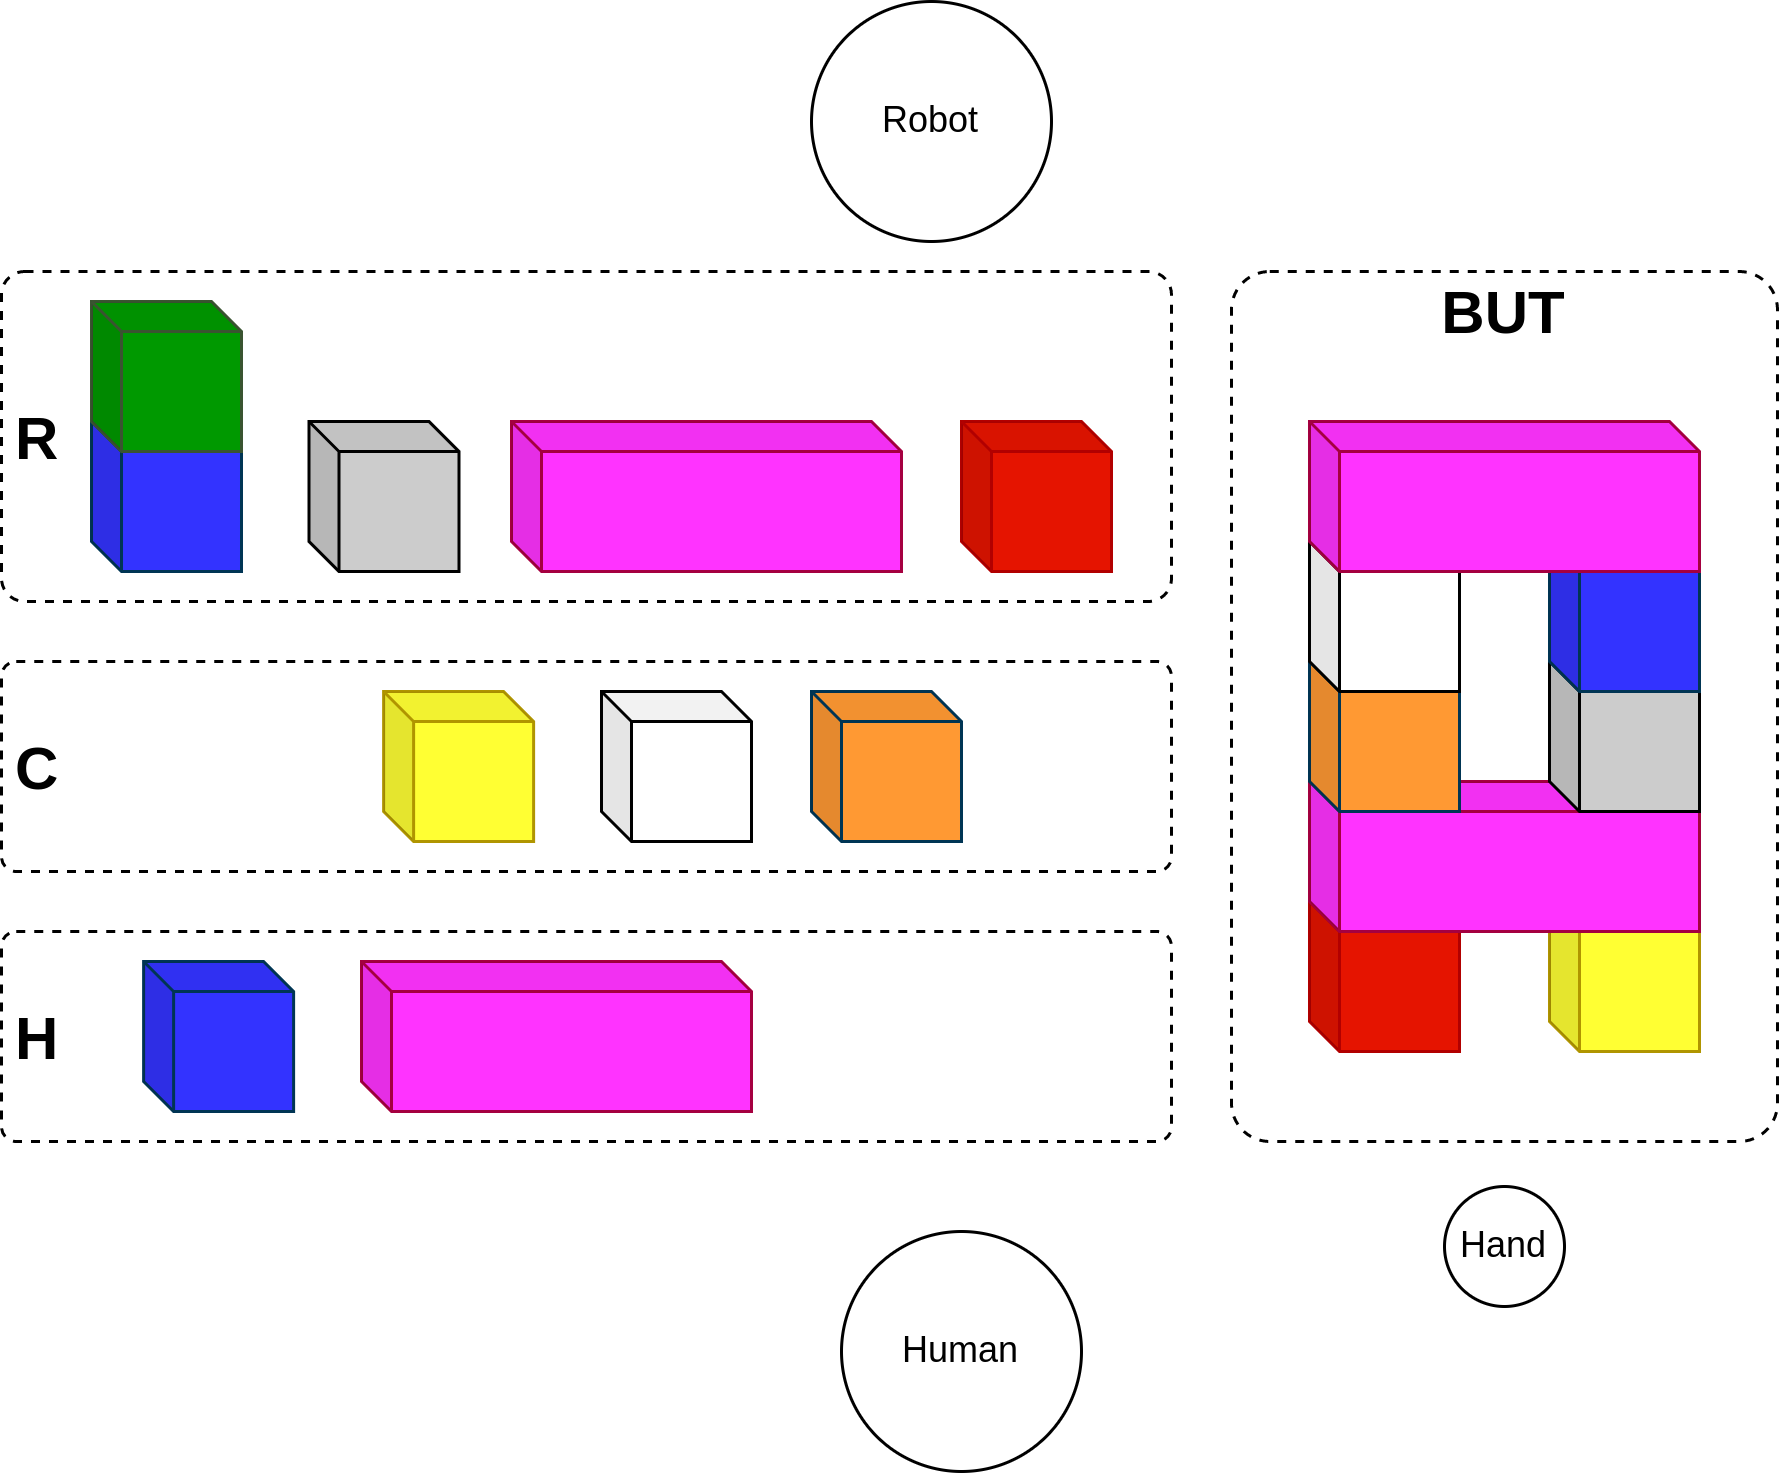
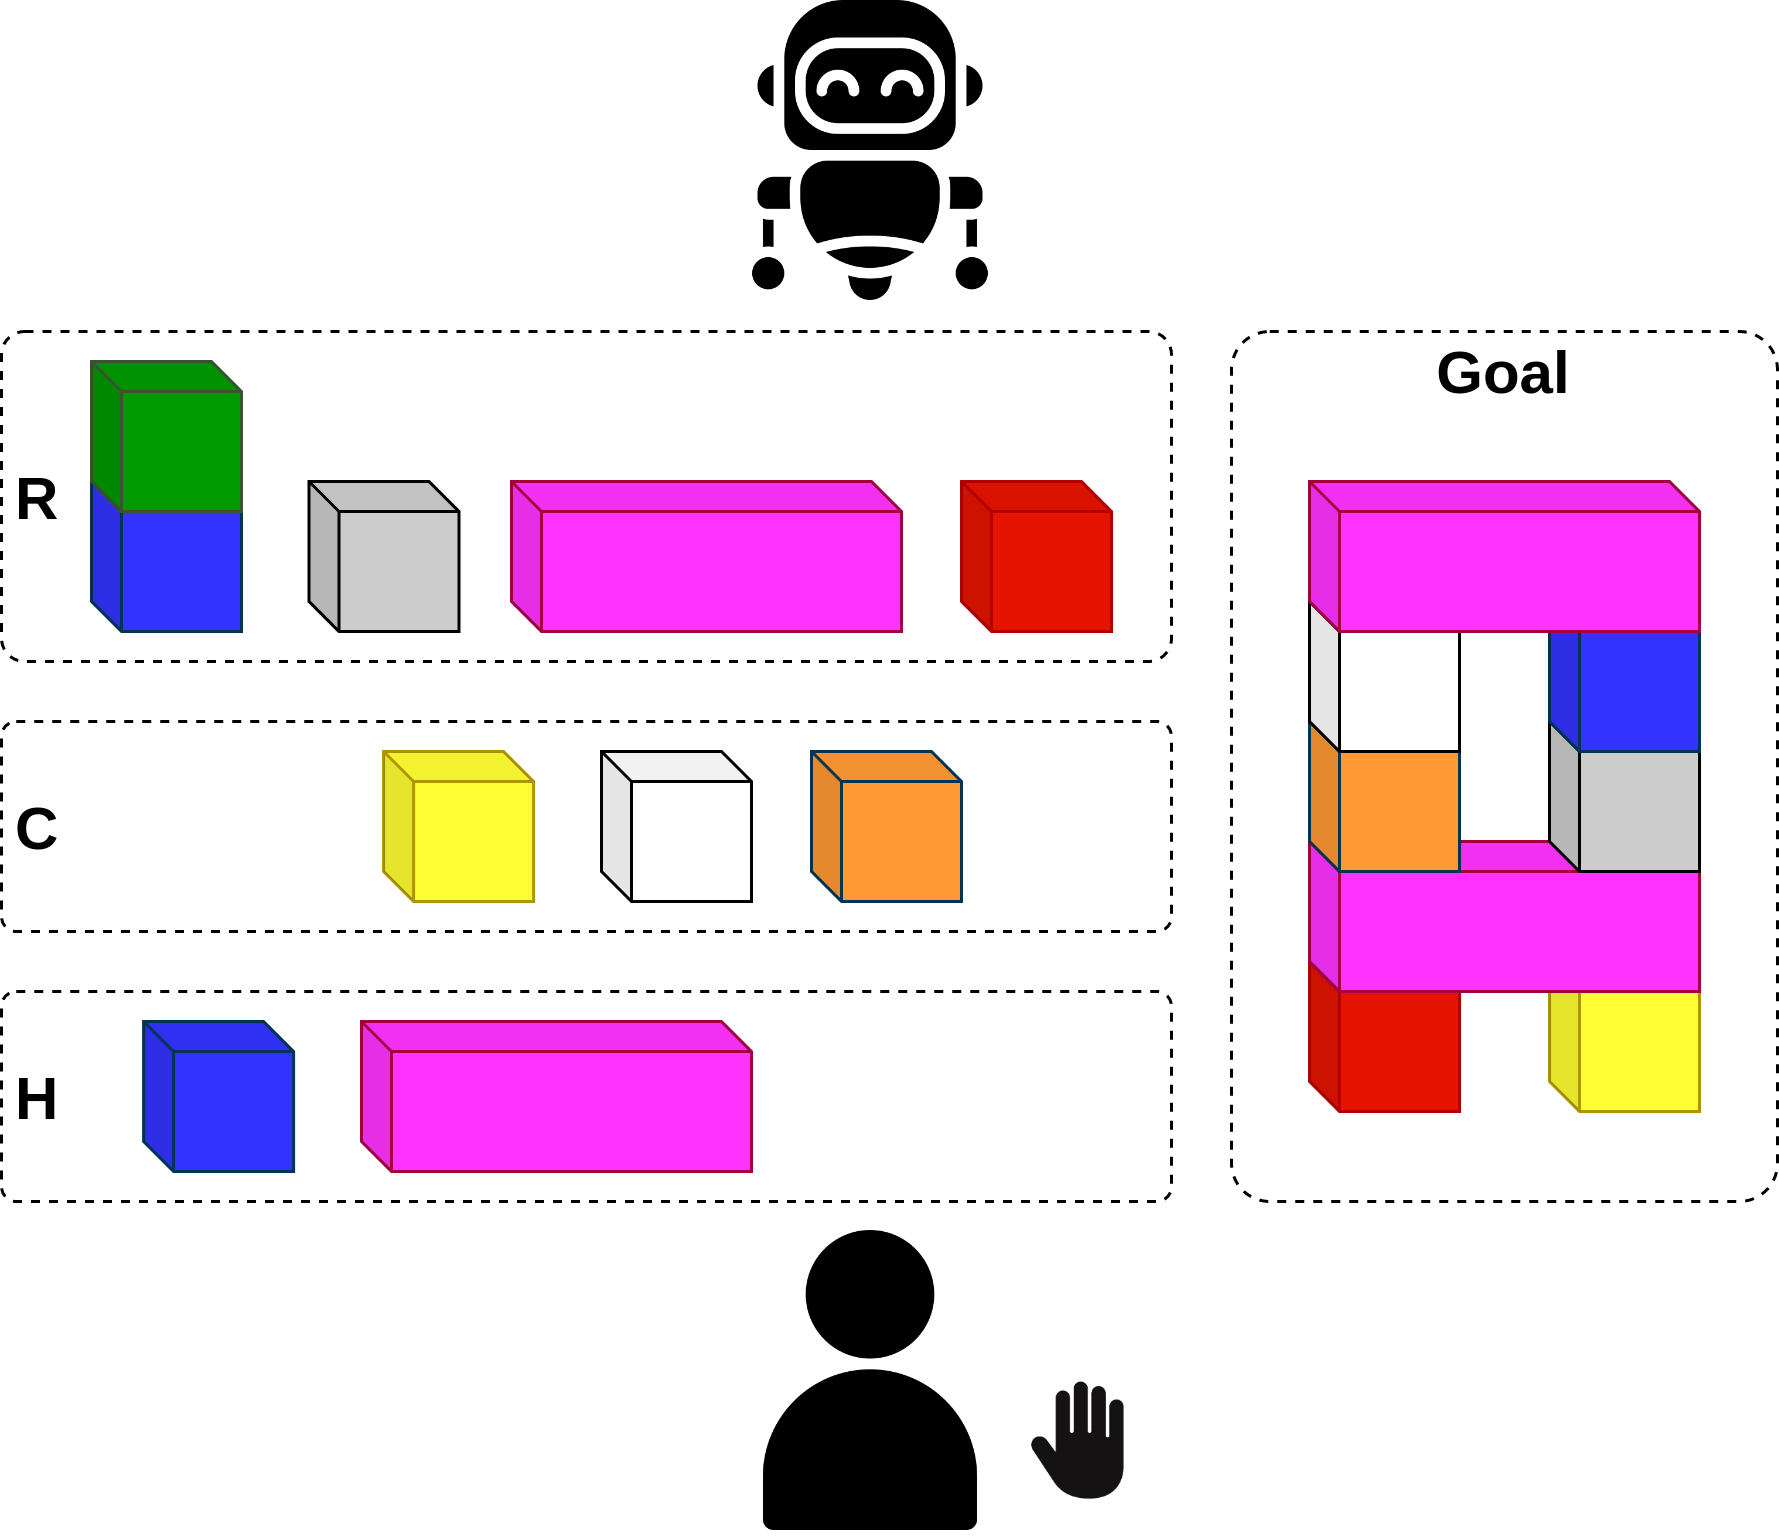
Ch5 fig update

diff --git a/Chapters/Chapter5_Study.tex b/Chapters/Chapter5_Study.tex
@@ -34,7 +34,13 @@ Synchronization, internal communication through simulated visual signal, explici
 
 ***********
 
-In this section we provide a few functional and technical details about the developed interactive simulator used for the User Study.
+In this section we provide a few functional and technical details about the developed interactive simulator used for the User Study, its overall structure is shown on fig~\ref{fig:iteractive_simulator}.
+
+\begin{figure}
+    \includegraphics[width=\textwidth]{images/Chapter5/simulator.png}
+    \caption{Interactive Simulator Overview}
+    \label{fig:iteractive_simulator}
+\end{figure}
 
 First, it is using Gazebo to simulate the scene (table, cubes, agents). 
 The robot is a Tiago robot from PAL Robotics. We used a MoveIt controller to plan and execute arm motions. We used a publicly available component to control the gaze of the robot. The head behavior is ad hoc and designed by us.
@@ -50,17 +56,13 @@ For this to be possible we did the following. First, another gazebo plugin has b
 Then, at every step, the robot component sends to the component receiving the coordinates of the click the currently valid human actions that the participant can perform. Thus, the participant cannot try to place a cube without holding it. Eventually, each human action is mapped to a clickable zone on the gazebo window. Hence, when the click coordinates are received, we check if it is inside one of the designed zone and is the action associated to the zone is currently valid. If so, then the action decision is sent to the simulator controller to be executed. 
 For clarification purpose, when clicking on a cube the robot doesn't immediately know that the human is picking a cube. First, it will know that the human started to act only after receiving the visual signal (after the defined reaction time). And the robot must perform an additional perception phase (ID Process) to identify which action the human performed. 
 
-Additionally, a small prompt overlay is present to simulate a potential screen with which the robot can communicate its intention to the human during the collaboration.  
+Additionally, the stacking goal pattern is shown inside the simulator and a small prompt overlay is present to simulate a potential screen with which the robot can communicate its intention to the human during the collaboration. 
 
 Thanks to all these processes, the participant is able to intuitively perform actions using mouse control and can collaborate with the robot to solve the task.
 
 An integrated tutorial has been made to familiarize the participant with the mouse control and the relevant concepts used in the collaboration (notion of step, able to be passive). 
 
-\begin{figure}
-    \includegraphics[width=\textwidth]{images/Chapter5/simulator.png}
-    \caption{Interactive Simulator Overview}
-    \label{fig:iteractive_simulator}
-\end{figure}
+
 
 \section{Study protocol}
 
@@ -69,7 +71,8 @@ objective, participants, material, experiment design, procedure, measures
 This section describes the objectives and protocol of this study.  
 
 \begin{figure}
-    \includegraphics[width=\textwidth]{images/Chapter5/UserStudyProcedure.png}
+    \centering
+    \includegraphics[width=0.8\textwidth]{images/Chapter5/UserStudyProcedure.png}
     \caption{User Study Protocol. Each participant goes through 6 scenarios and answer 6 questionnaires to evaluate each different robot behavior}
     \label{fig:user_study_protocol}
 \end{figure}
@@ -84,7 +87,8 @@ In this study, each participant is made to collaborate six times with a simulate
 Beforehand, every participant answers a few general/demographic questions and is familiarized with the simulator functionalities through an integrated tutorial. Only then they start the six consecutive collaborative scenarios, answering every time a questionnaire to describe the interaction. Eventually, every participant is asked to share their general feelings and impressions about the overall interaction with the simulated robot, and they are asked to tell which scenario they preferred the most and the least.
 
 \begin{figure}
-    \includegraphics[width=\linewidth]{images/Chapter5/task_description_study.png}
+    \centering
+    \includegraphics[width=0.8\linewidth]{images/Chapter5/task_description_study.png}
     \caption{Description of the shared task to achieve in the study.}
     \label{fig:task_description_study}
 \end{figure}
